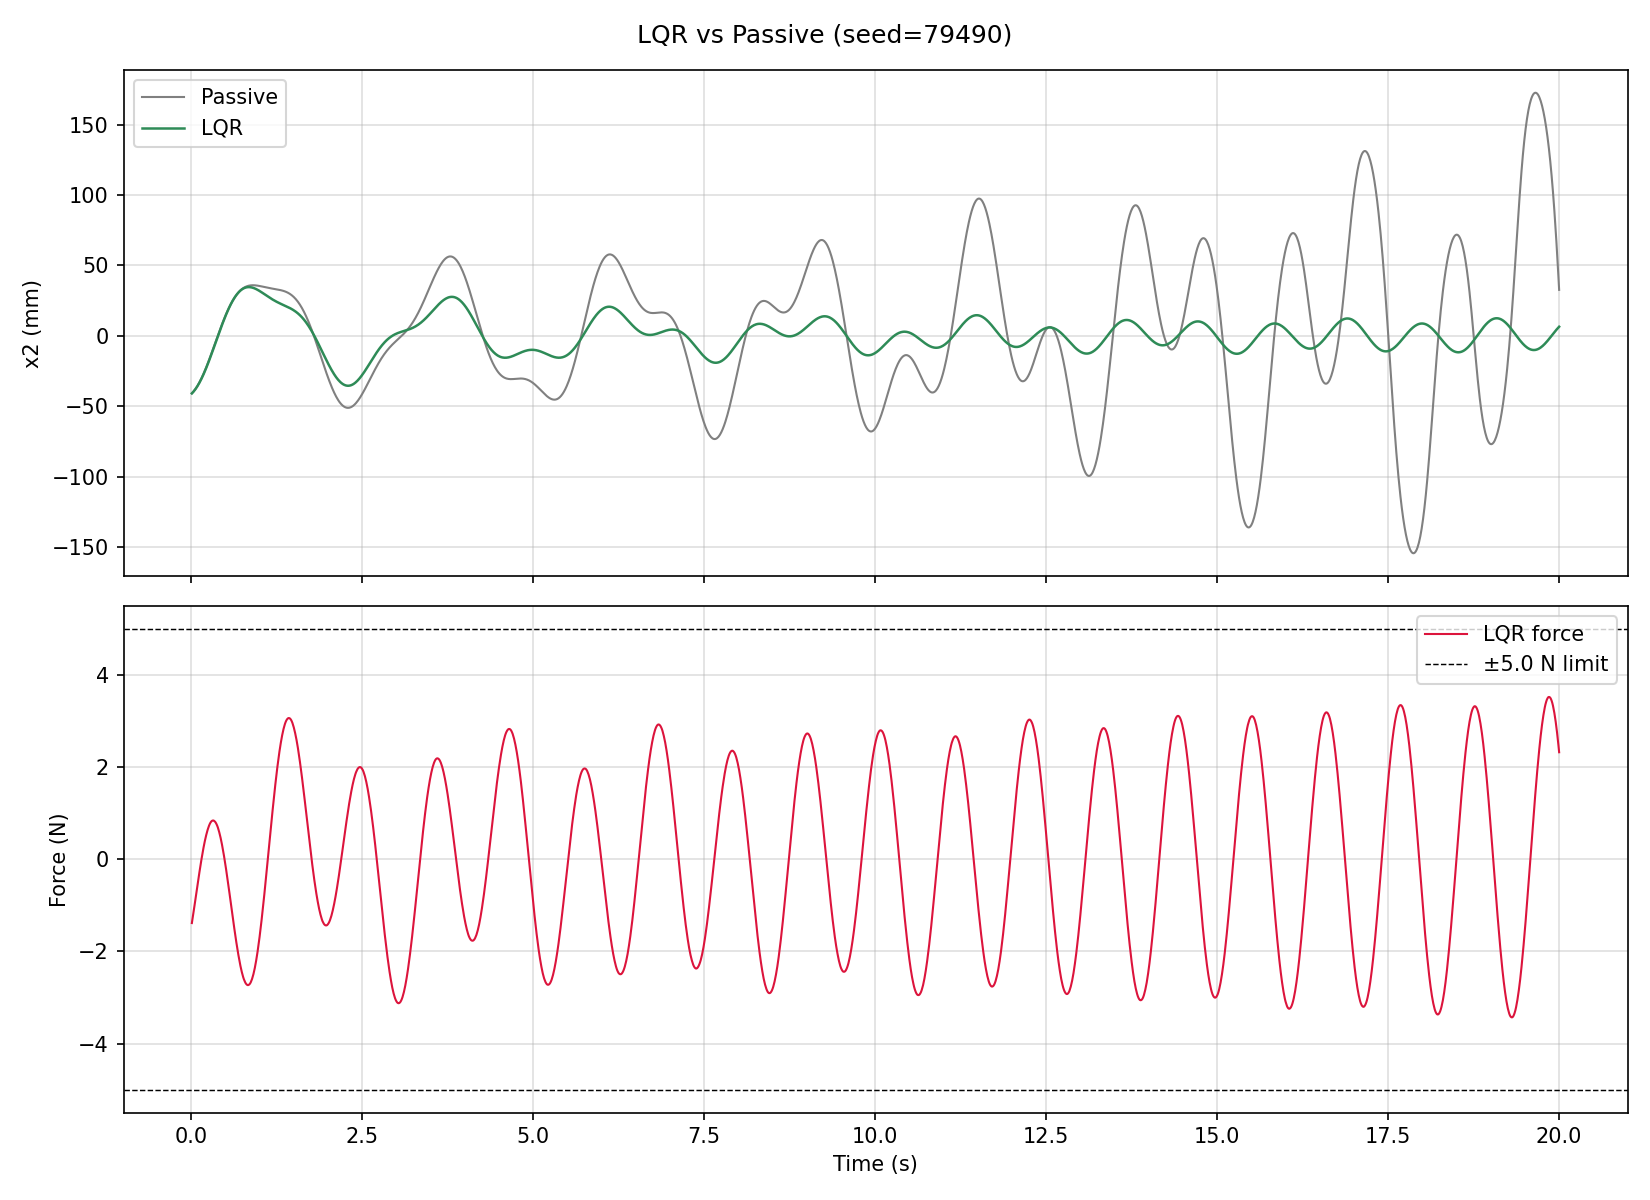
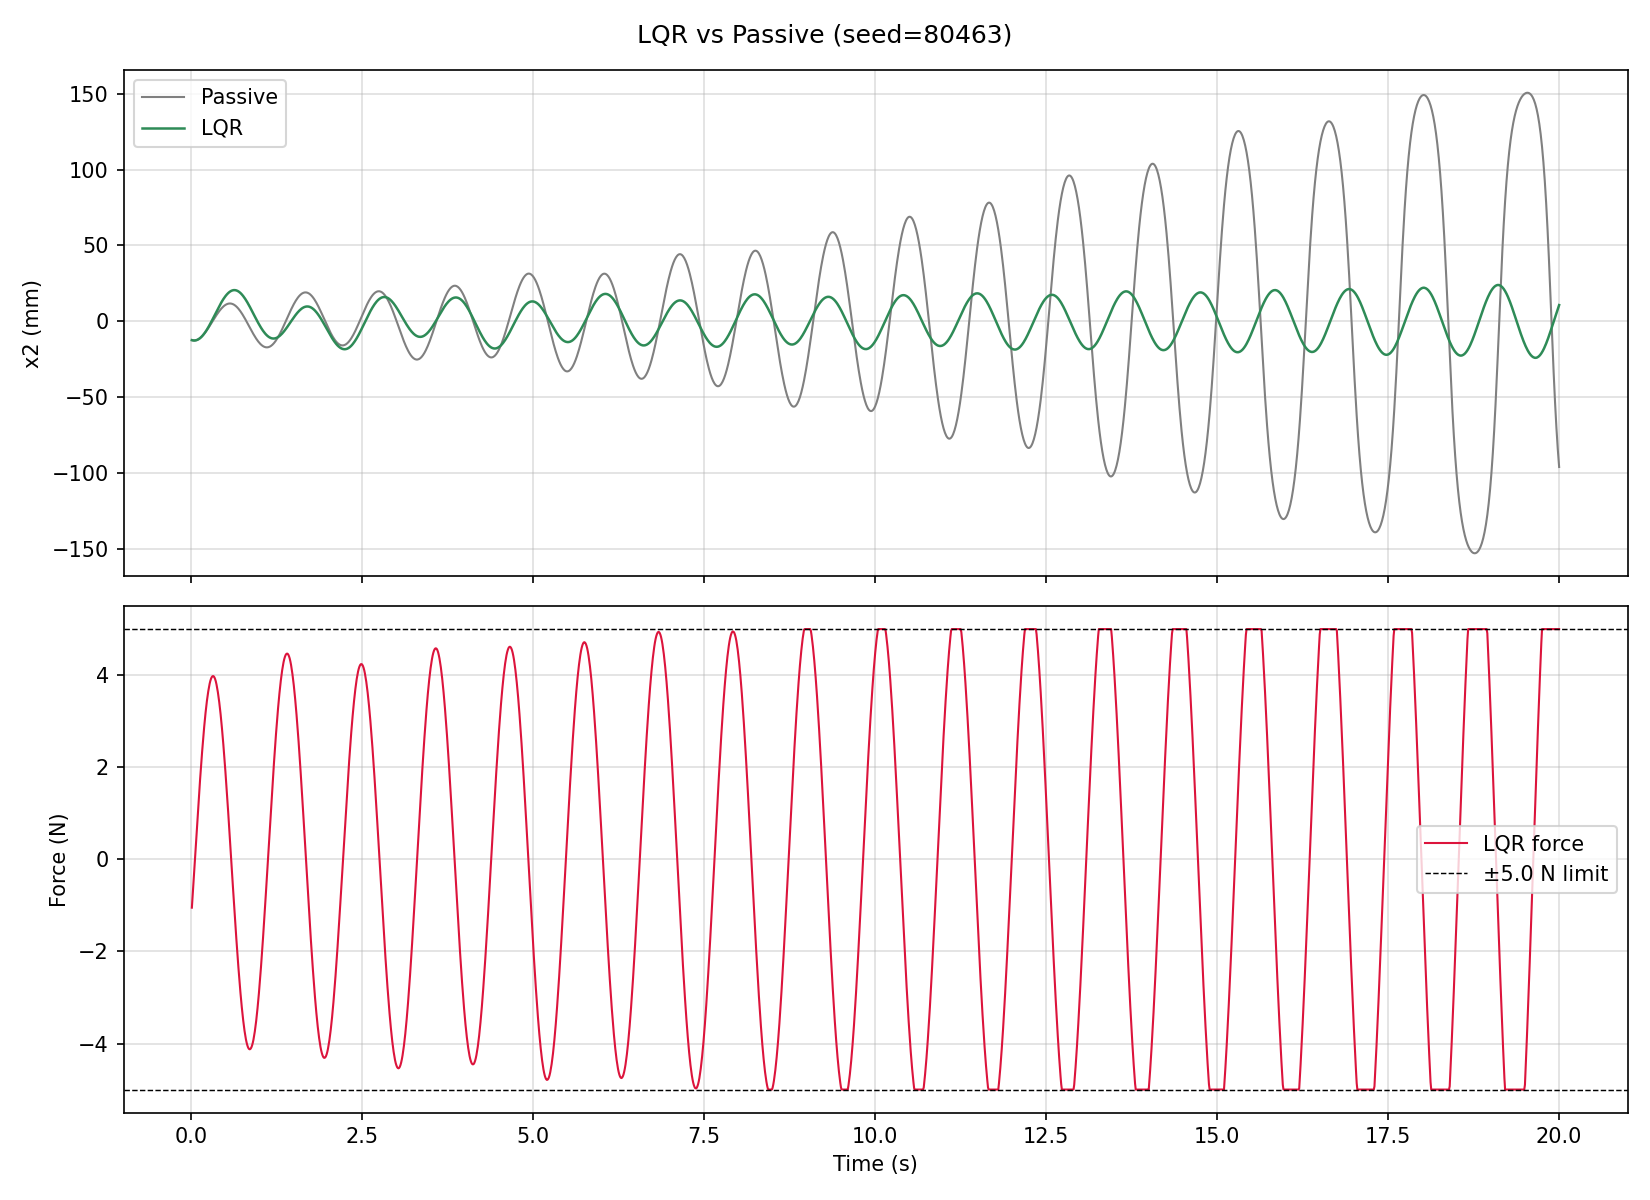
Auto-update simulation results and README

diff --git a/README.md b/README.md
@@ -118,20 +118,30 @@ Then compare runs in W&B by metrics such as `rms_rl_mm`, `rms_lqr_mm`, `rms_casc
 ## Latest Auto-Generated Run Summary
 
 ### RL (latest run)
-- Seed: `79358`
-- Passive RMS x2: `0.399 mm`
-- RL RMS x2: `0.007 mm`
-- Improvement factor (passive/RL): `56.26x`
+- Seed: `80212`
+- Passive RMS x2: `0.295 mm`
+- RL RMS x2: `0.006 mm`
+- Improvement factor (passive/RL): `48.72x`
 - Reward initial/final: `-178.2191 -> -0.0163`
 - No-noise regulation final |x2|: `96.748 mm`
 - Interpretation: If improvement is < 1.0x, the policy is still underperforming passive isolation and reward scaling/actuation strategy should be revisited.
 
 ### Simple controls / LQR (latest run)
-- Seed: `79490`
-- Passive RMS x2: `57.381 mm`
-- LQR RMS x2: `12.840 mm`
-- Improvement factor (passive/LQR): `4.47x`
+- Seed: `80463`
+- Passive RMS x2: `65.850 mm`
+- LQR RMS x2: `12.827 mm`
+- Improvement factor (passive/LQR): `5.13x`
 - Interpretation: This is your near-equilibrium model-based baseline; RL should eventually match or exceed this over repeated seeds.
+
+### Unified evaluation modes (same seed)
+- Seed: `80212`
+- RL-only RMS x2: `0.006 mm`
+- LQR-only RMS x2: `0.144 mm`
+- Cascade RMS x2: `0.006 mm`
+- Bad-LQR RMS x2: `0.197 mm`
+- Bad-Cascade RMS x2: `0.006 mm`
+- Cascade alpha: `1.00`
+- Bad-LQR scale: `0.35`
 
 ### How to read the plots
 - **Time-domain x2 plot**: smaller oscillation envelope means better isolation of the bottom mirror displacement.
